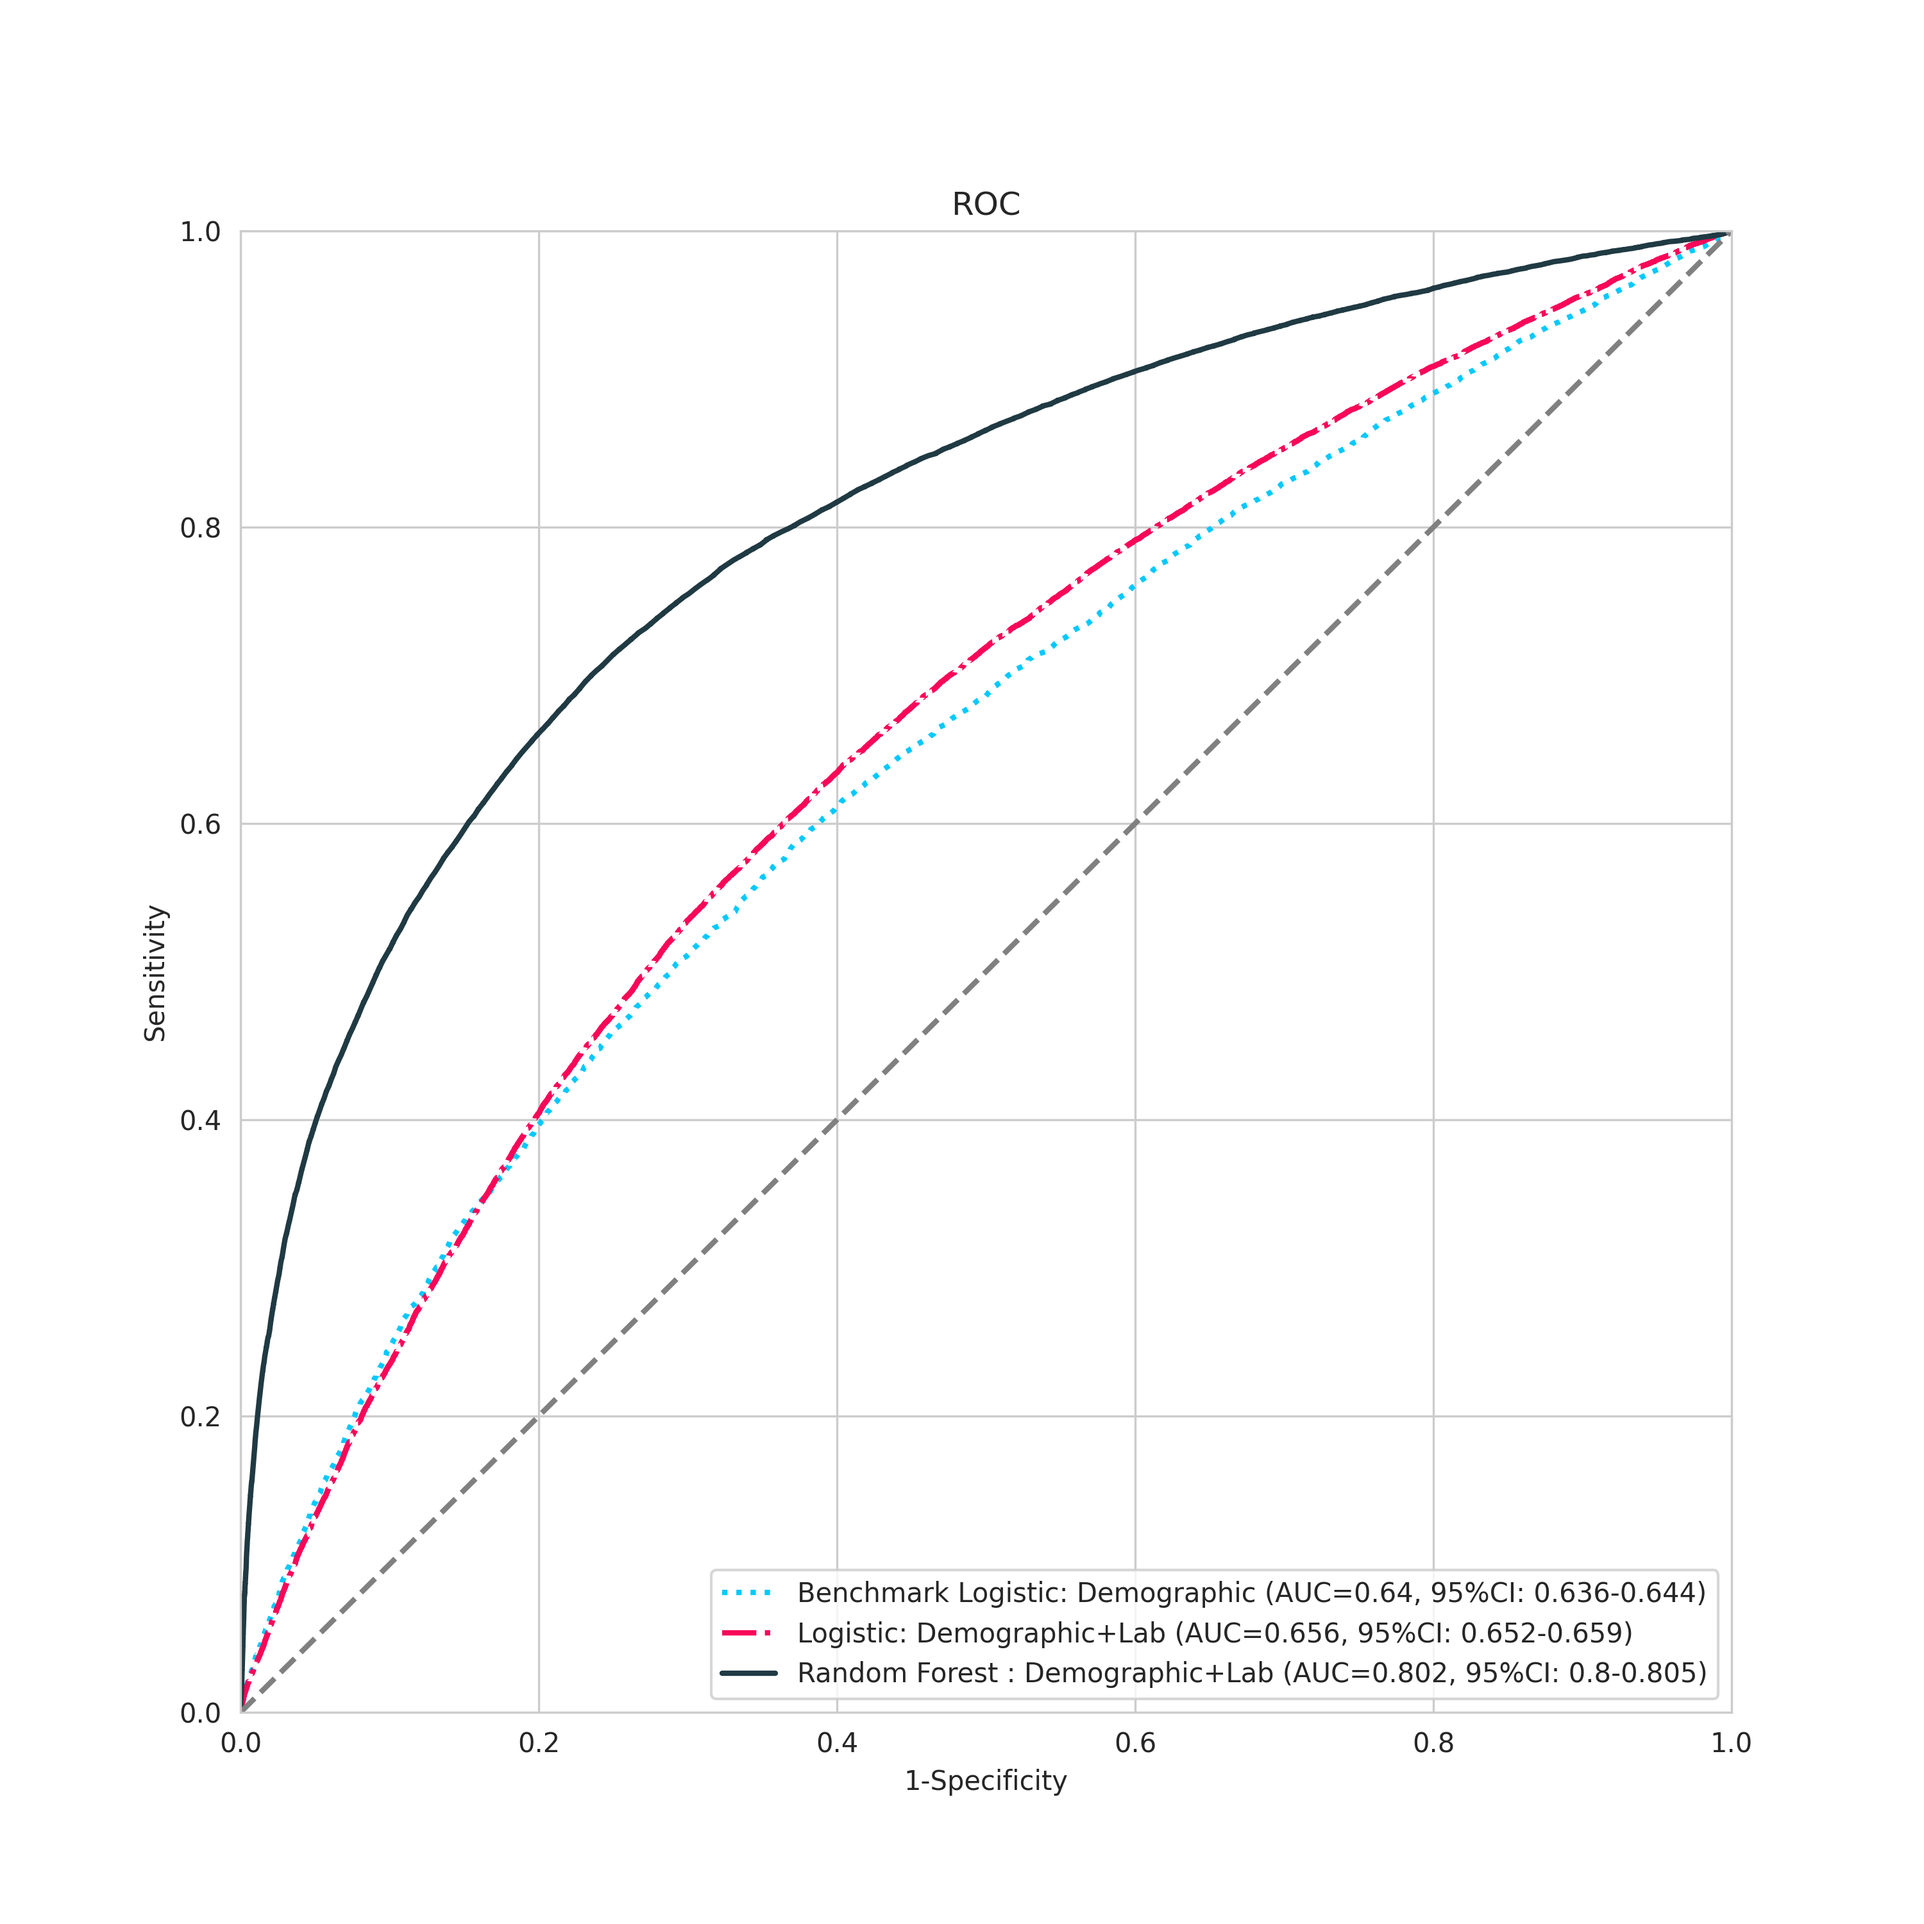
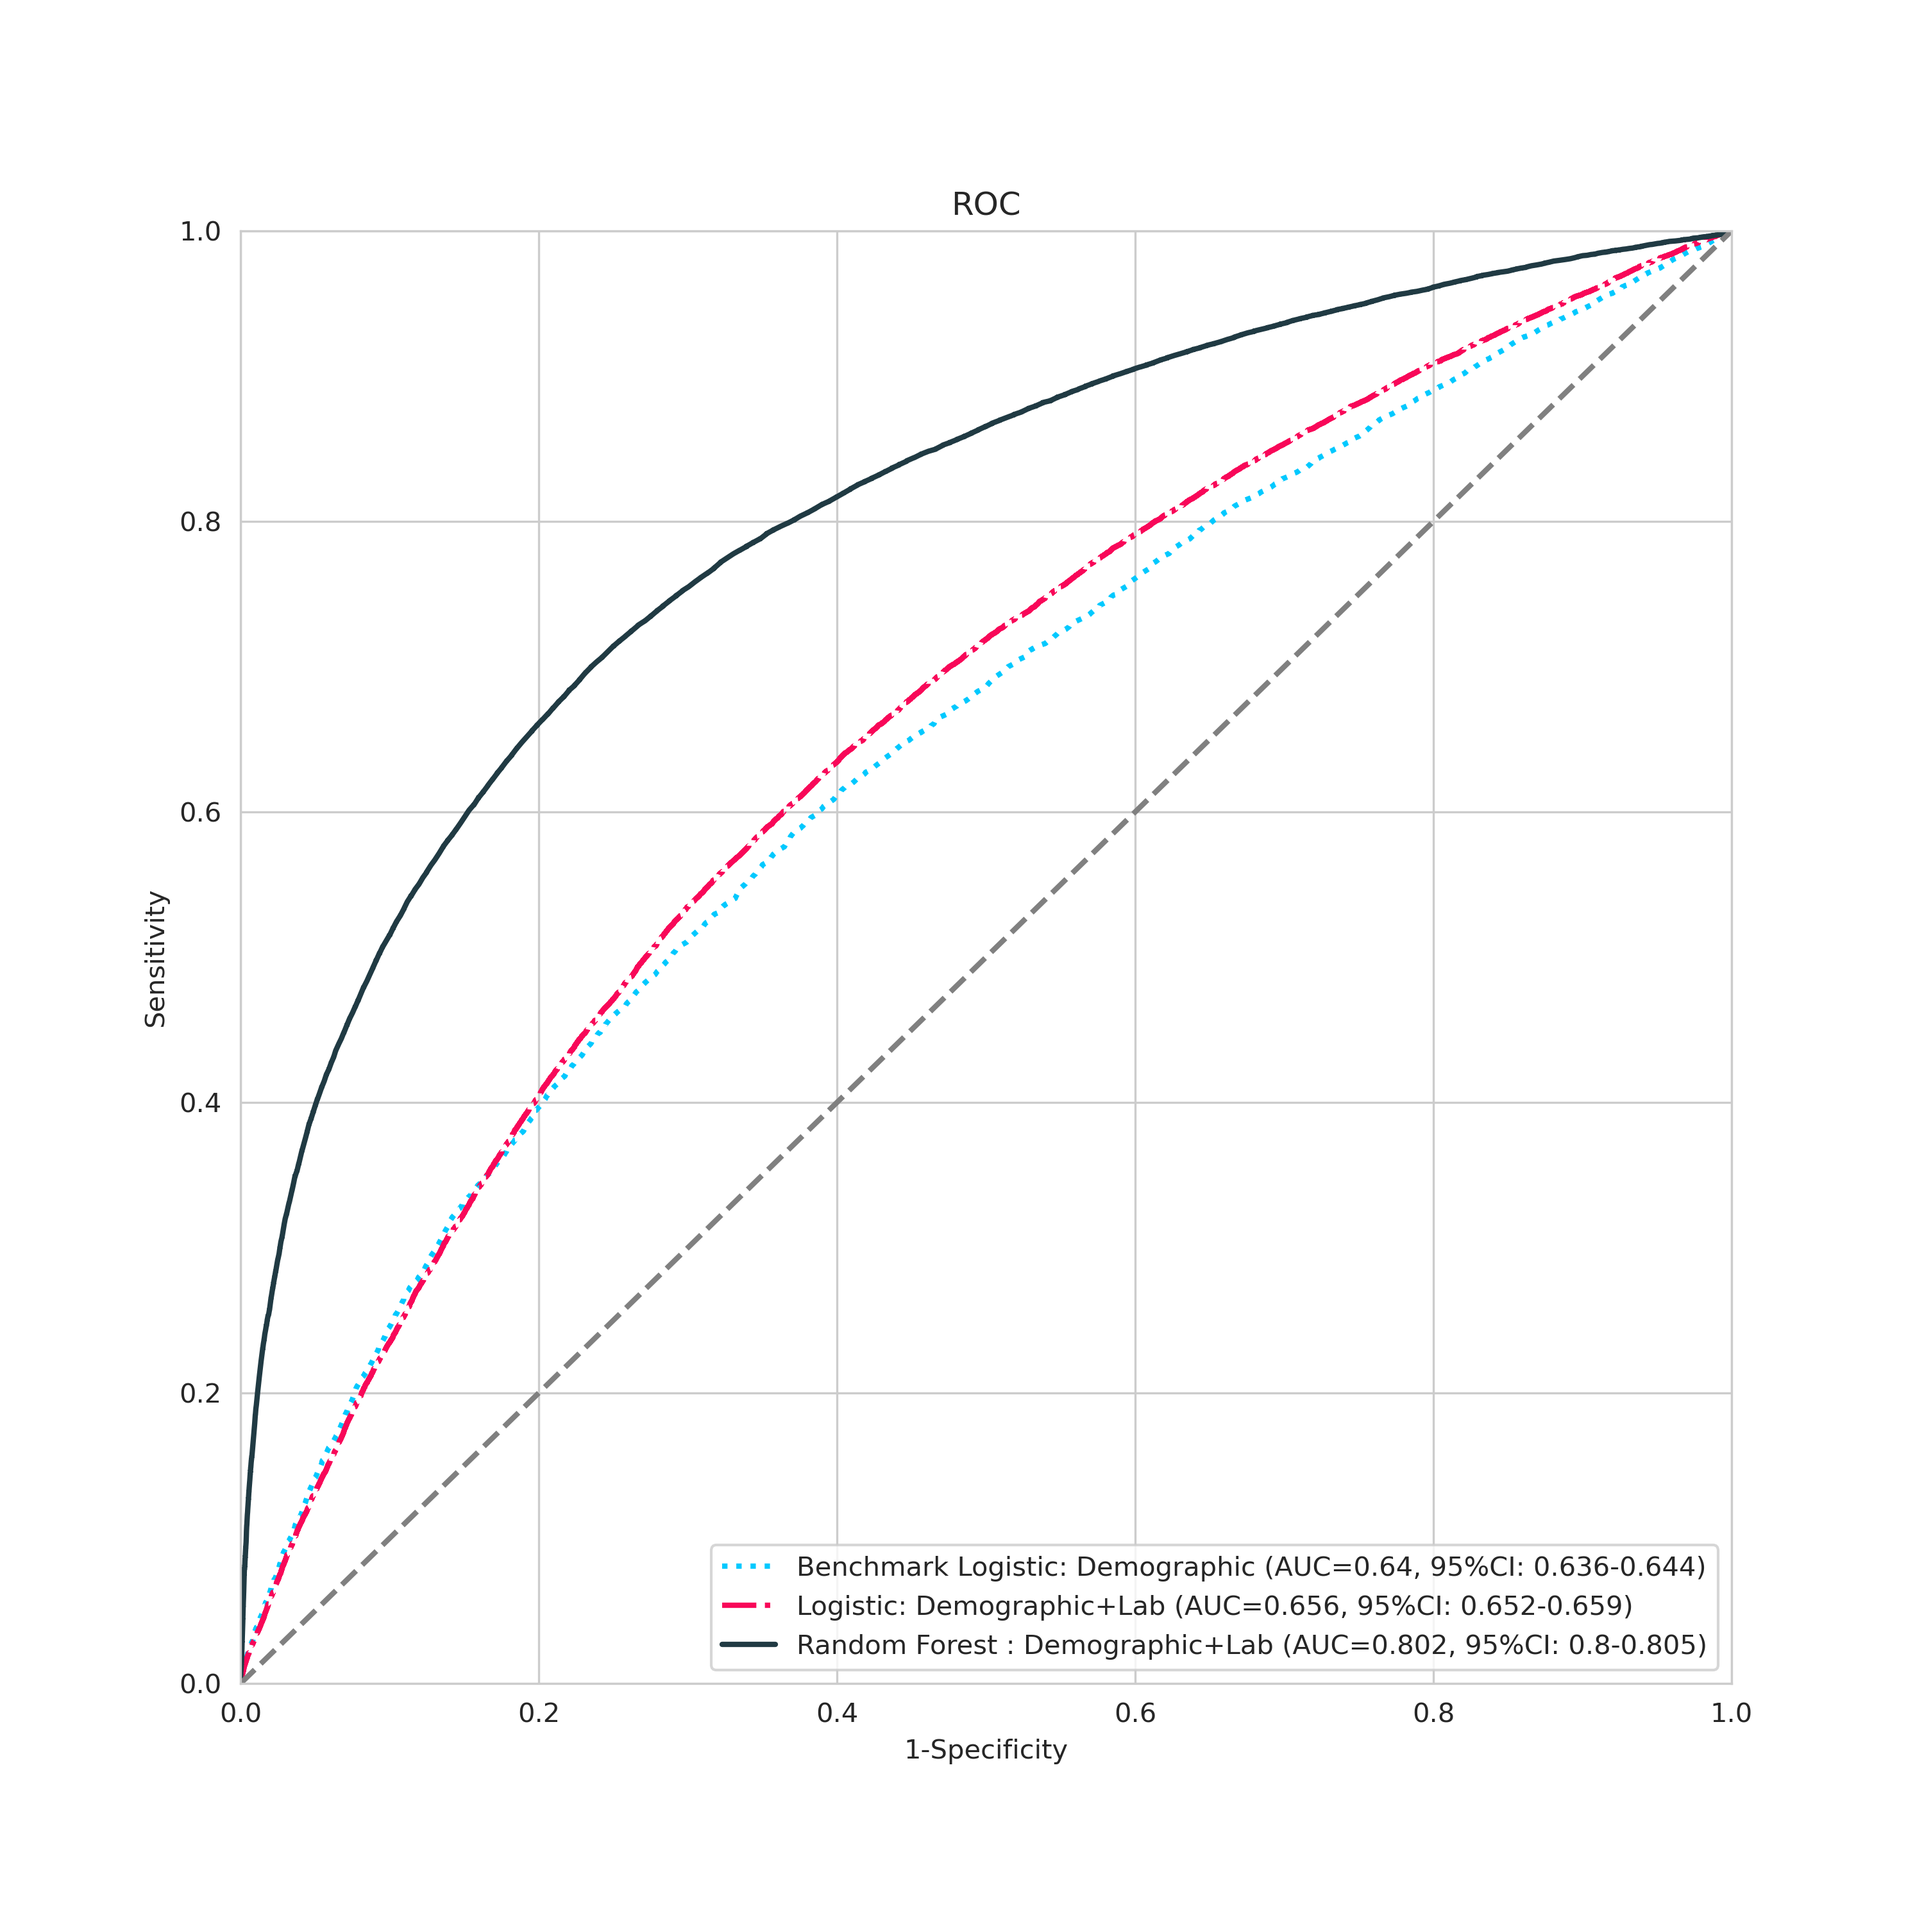
Updated Figure 2 ROC plot with DCA plot.

diff --git a/scripts/analysis/06_manuscript_figures.py b/scripts/analysis/06_manuscript_figures.py
@@ -11,17 +11,20 @@ This script consolidates results found in the results folders for the
 """
 Modules
 """
+# %%
 import pandas as pd
+import numpy as np
 # plots
 import matplotlib.pyplot as plt
 from matplotlib import gridspec
 import seaborn as sns; sns.set_style('whitegrid')
 # import custom function to make names easier to read
 from analysis_functions.custom_metrics import readable_variables
+from analysis_functions.custom_metrics import dca
 # os and yaml
 import os
 import yaml
-
+# %%
 """
 Setup
 """
@@ -37,13 +40,15 @@ results_folder = root_dir + '/results/manuscript/'
 """
 FIGURE 2:
 
-Combined ROC curve for RF model and Logistic with L1 penalization (lasso) model
+Combined ROC curve for RF model and Logistic with L1 penalization (lasso) model.
+Note as of 2021-05-10 added DCA plot as well.
 
 This figure uses the sensivity (tpr), 1-specificity (fpr) dataframes generated
 in model scripts for rf_longituindal_flarev1_prev_flare and 
 logreg_regularization
 """
-
+### Load ROC results ###
+# %%
 # benchmark clinical features logistic regression
 benchmark_path = (root_dir + "/results/logreg_clinical_benchmark/" + 
                   "logreg_roc.csv")
@@ -98,8 +103,79 @@ rf_auc = ('Random Forest : Demographic+Lab (AUC={0}, 95%CI: {1}-{2})'
                   rf_auc_intervals[2].round(3),
                   rf_auc_intervals[3].round(3)))
 
+
+### DCA caclulations ###
+
+# benchmark clinical values only
+logreg_bench = pd.read_csv('../../results/logreg_clinical_benchmark/logreg_pred.csv')
+
+# add in bayes corrected probability to benchmark model
+def bayes(obs_pred, pop_prop):
+    bayes_pred = (
+        (obs_pred * pop_prop) / ((obs_pred * pop_prop) + (1-obs_pred)*(1-pop_prop))
+    )
+    return(bayes_pred)
+
+# calculate pop_prop for flare (this is also the prevalence)
+pop_prop_flare = logreg_bench['flare_true'].sum() / logreg_bench['flare_true'].count()
+
+
+# apply formula to add bayes corrected probablity back in to the benchmark dataframe
+logreg_bench['bayes_prob'] = [
+    bayes(obs_pred = x, pop_prop = pop_prop_flare) 
+    for x in logreg_bench['flare_pred_prob']
+]
+
+# logreg lasso
+logreg = pd.read_csv('../../results/logreg_regularization/logreg_pred.csv')
+
+# random forest
+rf = pd.read_csv('../../results/rf/rf_pred.csv')
+
+### Calculate net benefits for models based on bayes probabilities ### 
+
+# logreg benchmark clinical only
+logreg_bench_net_ben = dca(
+    true_class = logreg_bench['flare_true'], 
+    model_pred_prob = logreg_bench['bayes_prob']
+)
+
+# logistic clinical + labs
+logreg_net_ben = dca(
+    true_class = logreg['flare_true'], 
+    model_pred_prob = logreg['bayes_prob']
+)
+
+# random forest net benefit
+rf_net_ben = dca(
+    true_class = rf['flare_true'],
+    model_pred_prob = rf['bayes_prob']
+)
+
+
+# All treatment net benefit
+# note the prevalence of flare events in the testing dataset is the same across models
+pt_vals = np.linspace(0.01, 0.99, 100)
+
+pt_odds = pt_vals / (1 - pt_vals)
+
+# all treated net benefit based on pt_val thresholds
+all_treat_net_benefit = pop_prop_flare - (1 - pop_prop_flare) * pt_odds
+
+
+### FIGURE 2: A. ROC plot B. DCA plot ####
+
 ### ROC plot ###
-plt.figure(figsize=(10,10))
+
+fig = plt.figure(figsize=(8,10), constrained_layout=True)
+# add grid spec
+gs = fig.add_gridspec(nrows = 3, ncols = 1)
+
+# roc plot
+ax1 = fig.add_subplot(gs[:2, :])
+# set title
+ax1.set_title('A', size = 15, loc = 'left')
+# line width
 lw = 2
 # benchmark plot
 plt.plot(benchmark_roc_df['fpr'], 
@@ -108,7 +184,7 @@ plt.plot(benchmark_roc_df['fpr'],
          lw=lw, 
          linestyle=':',
          label=benchmark_auc)
-# cd plot
+
 # logreg lasso plot
 plt.plot(lr_roc_df['fpr'], 
          lr_roc_df['tpr'],
@@ -127,10 +203,71 @@ plt.xlim([0.0, 1.0])
 plt.ylim([0.0, 1.0])
 plt.xlabel('1-Specificity')
 plt.ylabel('Sensitivity')
-plt.title('ROC')
+#plt.title('A. Receiver Operating Characteristics Curve', loc = 'left')
 plt.legend(loc="lower right")
+
+### DCA Plot ###
+ax2 = fig.add_subplot(gs[2, :])
+# add title
+ax2.set_title('B', size = 15, loc = 'left')
+# all treated net benefit threshold
+plt.plot(
+    pt_vals , # thresholds
+    all_treat_net_benefit , 
+    color = 'darkblue' , 
+    lw = lw , 
+    linestyle = '--' , 
+    label = 'Intervention for All'
+)
+
+# no treatment net benefit
+plt.plot(
+    [0, 1],
+    [0, 0], 
+    color = 'grey', 
+    lw = lw, 
+    linestyle='--', 
+    label = 'Intervention for None'
+)
+
+# benchmark plot
+plt.plot(
+    logreg_bench_net_ben['prob_thresh'], 
+    logreg_bench_net_ben['net_benefit'],
+    color = '#00C9FF',
+    lw = lw, 
+    linestyle = ':',
+    label = 'Benchmark Logistic: Demographic'
+)
+
+# logreg lasso plot
+plt.plot(
+    logreg_net_ben['prob_thresh'], 
+    logreg_net_ben['net_benefit'],
+    color = '#f80759',
+    lw = lw, 
+    linestyle = '-.',
+    label = 'Logistic: Demographic+Lab'
+)
+
+# rf plot
+plt.plot(
+    rf_net_ben['prob_thresh'], 
+    rf_net_ben['net_benefit'],
+    color = '#203A43',
+    lw = lw, 
+    label = 'Random Forest : Demographic+Lab'
+)
+
+
+plt.xlim([0.0, 0.5])
+plt.ylim([-0.025, 0.125])
+plt.xlabel('Probability Threshold')
+plt.ylabel('Net Benfit')
+plt.legend(loc="upper right")
+
 # save roc plot; pass white facecolor to save
-plt.savefig(results_folder + "fig2_roc_plot.png", 
+plt.savefig(results_folder + "fig2_roc_dca_plot.png", 
             facecolor = 'white', dpi = 300)
 
 """
@@ -217,6 +354,7 @@ plt.xlabel('1-Specificity')
 plt.ylabel('Sensitivity')
 plt.title('Random Forest ROC for IBD Subgroups')
 plt.legend(loc="lower right")
+# %%
 # save roc plot; pass white facecolor to save
 plt.savefig(results_folder + "ibd_subgroup_rf_roc_plot.png", 
             facecolor = 'white', dpi = 300)
@@ -378,3 +516,7 @@ plt.tight_layout(pad=2, w_pad=2, h_pad=2)
 # note, I saved as png
 plt.savefig(results_folder + "rf_vif_ibd_subgroups_plot.png", 
             facecolor = 'white')
+
+
+
+# %%

diff --git a/scripts/analysis/analysis_functions/custom_metrics.py b/scripts/analysis/analysis_functions/custom_metrics.py
@@ -221,3 +221,67 @@ def readable_variables(feature_list):
                       else w for w in readable_vars]
     # returns list of readable names
     return(readable_vars)
+
+"""Decision curve net benefit analysis function (DCA)
+
+    Equation:
+    
+    odds_pt = ( prob thresh / (1 - prob thresh) )
+    
+    Net benefit = (true positive / n) - ((false negative / n) * odds_pt)
+
+"""
+    
+def dca(true_class, model_pred_prob, n_thresholds = 100):
+    
+    # probability thresholds to calculate
+    # (note goes from 0.01 to 0.99 to avoid division by 0)
+    pt_vals = numpy.linspace(0.01, 0.99, n_thresholds)
+    
+    # lists to append values to for a given threshold
+    net_benefit = []
+    sensitivity = []
+    specificity = []
+    
+    for pt in pt_vals:
+        pred_class = numpy.where(model_pred_prob >= pt, 1, 0 )
+
+        # crosstabulation / confusion matrix 
+        cm = confusion_matrix(true_class, pred_class)
+        
+        # sensitivity value for a given threshold
+        sn = cm[1][1] / cm[1].sum()
+        # specificity value for a given threshold
+        sp = cm[0][0] / cm[0].sum()
+
+        # true positives number from confusion matrix
+        true_pos = cm[1][1]
+        # false positives number from confusion matrix
+        false_pos = cm[0][1]
+
+        # sample size number
+        samp_n = cm.sum()
+
+        # threshold ratio
+        thresh_odds = ( pt / (1 - pt) )
+
+        # net benefit formula
+        net_ben = ( true_pos / samp_n ) - ( ( false_pos / samp_n ) * thresh_odds )
+        
+        # append to list
+        net_benefit.append(net_ben)
+        sensitivity.append(sn)
+        specificity.append(sp)
+    
+    # create dataframe of threshold values and net benefit
+    df = pandas.DataFrame(
+        {
+            'prob_thresh': pt_vals , 
+            'net_benefit': net_benefit , 
+            'sensitivity': sensitivity , 
+            'specificity': specificity
+        }
+    )
+    
+    # return pandas dataframe
+    return( df )
